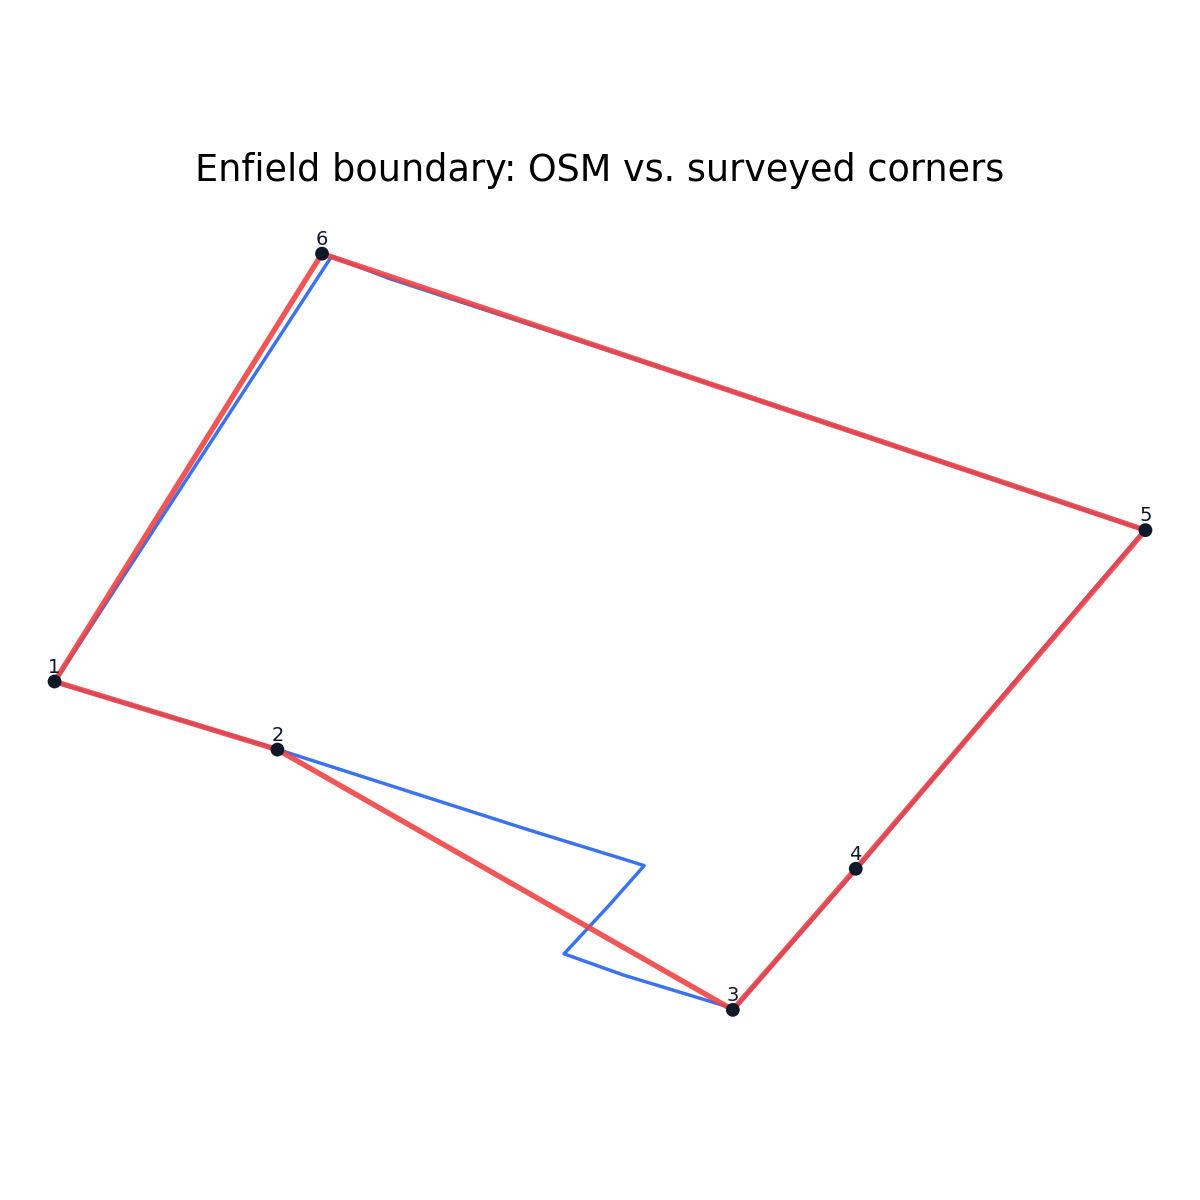
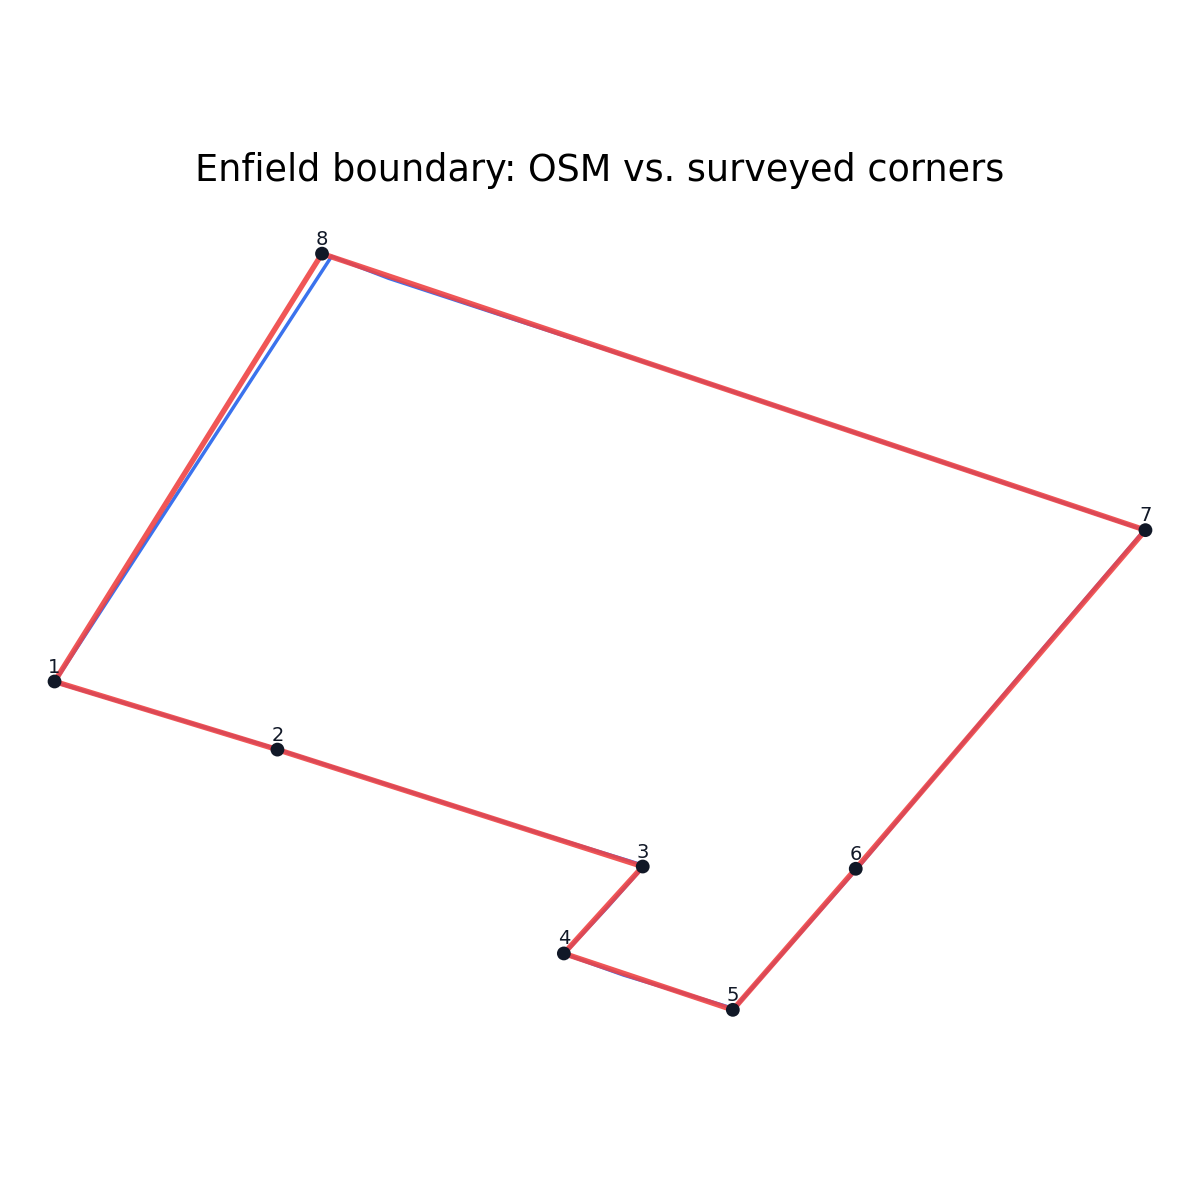
missing survey corners

Changed region(s): [[0.4317, 0.7092, 0.6167, 0.8633], [0.2467, 0.6167, 0.4008, 0.7092], [0.37, 0.6783, 0.4933, 0.74]]

diff --git a/02_compare_enfield_corners.py b/02_compare_enfield_corners.py
@@ -13,7 +13,6 @@ Usage:
 from __future__ import annotations
 
 import json
-import math
 from collections.abc import Iterable
 from dataclasses import dataclass
 from pathlib import Path
@@ -62,6 +61,17 @@ ENFIELD_DMS_CORNERS: list[Corner] = [
         name="Enfield–Grantham–Plainfield (W corner)",
         lat_dms="43° 34' 24.63\" N",
         lon_dms="72° 10' 10.94\" W",
+    ),
+    # TODO: decimal seconds?
+    Corner(
+        name="Enfield–Grantham",
+        lat_dms="43° 33' 12\" N",
+        lon_dms="72° 06' 24\" W",
+    ),
+    Corner(
+        name="Enfield–Grantham",
+        lat_dms="43° 32' 18\" N",
+        lon_dms="72° 07' 13\" W",
     ),
     Corner(
         name="Enfield–Springfield–Grantham (S corner)",
@@ -142,22 +152,6 @@ def iter_boundary_lines(geom: Geometry) -> Iterable[Iterable[tuple[float, float]
         yield list(boundary.coords)
     except Exception:  # pragma: no cover - defensive
         return
-
-
-def order_survey_corners(corners: list[Corner]) -> list[tuple[float, float]]:
-    """Order surveyed corners into a simple polygon loop by polar angle.
-
-    Returns a list of (lon, lat) ordered around the centroid.
-    """
-    lon_lat = [(c.lon, c.lat) for c in corners]
-    cx = sum(lon for lon, _ in lon_lat) / len(lon_lat)
-    cy = sum(lat for _, lat in lon_lat) / len(lon_lat)
-
-    def angle(p: tuple[float, float]) -> float:
-        return math.atan2(p[1] - cy, p[0] - cx)
-
-    ordered = sorted(lon_lat, key=angle)
-    return ordered
 
 
 def main() -> None:
@@ -269,13 +263,14 @@ def main() -> None:
     osm_df_pl = pl.DataFrame(osm_rows).sort(["path_id", "order"])
 
     # Build surveyed polygon path (ordered by angle and closed)
-    survey_loop = order_survey_corners(ENFIELD_DMS_CORNERS)
+    survey_loop = ENFIELD_DMS_CORNERS.copy()
     # close the ring
     if survey_loop[0] != survey_loop[-1]:
         survey_loop = [*survey_loop, survey_loop[0]]
 
     survey_rows = [
-        {"lon": lon, "lat": lat, "order": i} for i, (lon, lat) in enumerate(survey_loop)
+        {"lon": corner.lon, "lat": corner.lat, "order": i}
+        for i, corner in enumerate(survey_loop)
     ]
     survey_df_pl = pl.DataFrame(survey_rows).sort(["order"])
 
